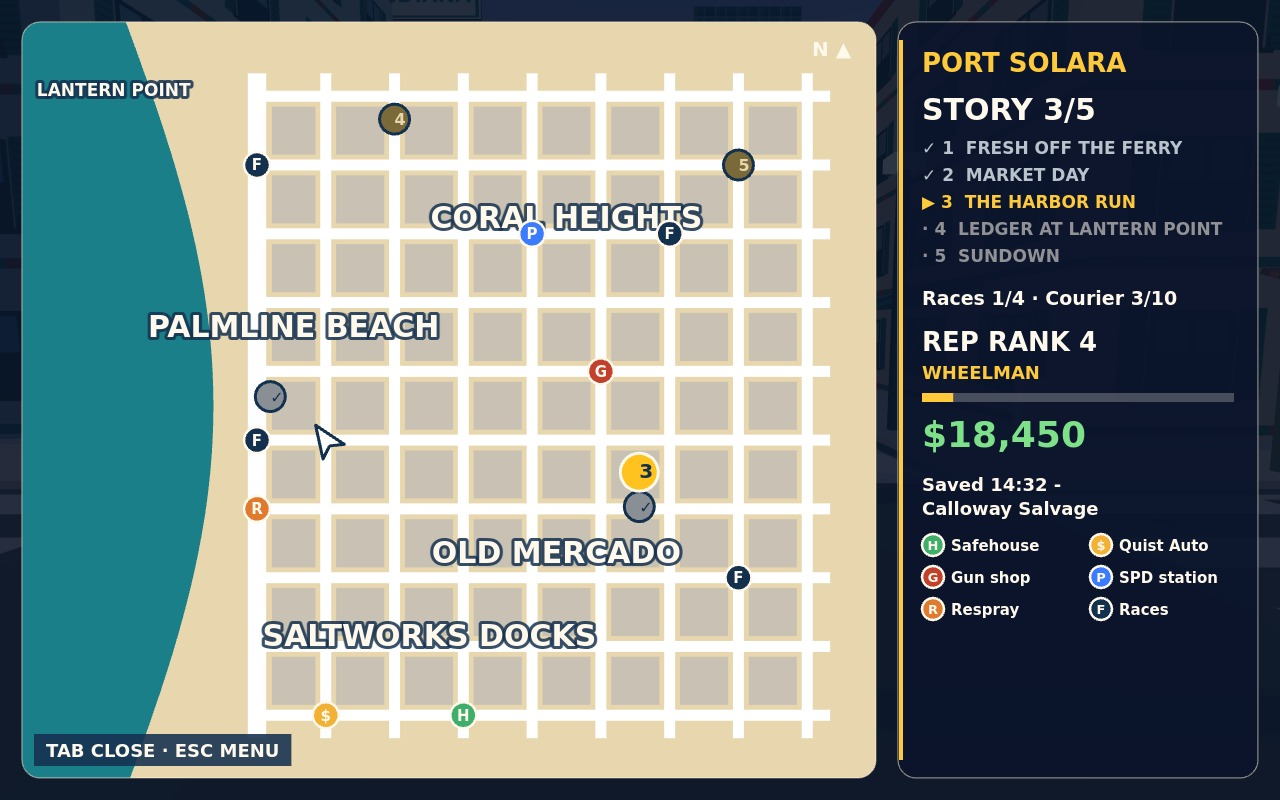
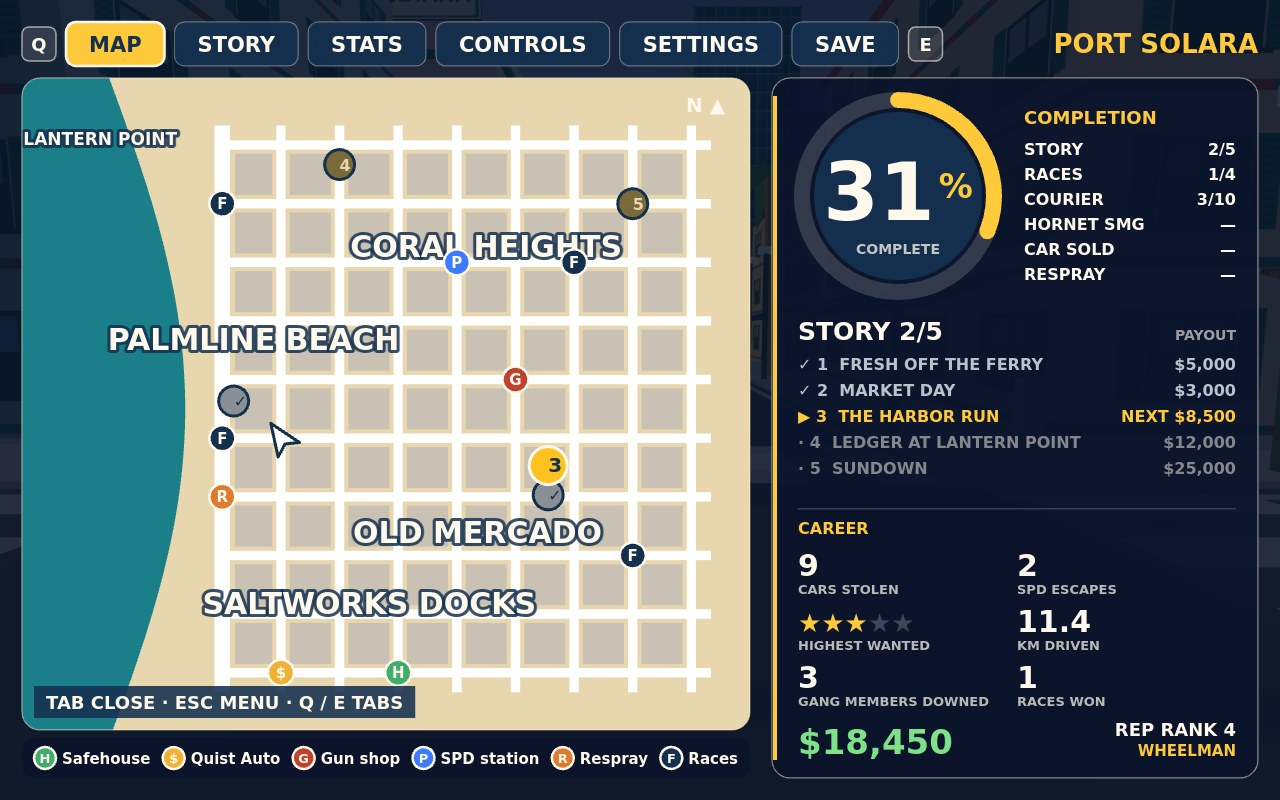
M8 step 4: shot 3 (3-map.jpg, same scene key and shots.json) shows the tabbed pause with MAP lit: tab row, city map with the legend strip, completion ring at 31% (from completionOf: story 24 + races 4 + courier 3), story with payouts and the six career numbers; SHOT_CAREER (9 cars stolen, 2 SPD esca

diff --git a/game/src/dev/screenshot-scenes.js b/game/src/dev/screenshot-scenes.js
@@ -1,5 +1,7 @@
 // Stages a shot from the seeded start, plays the real simulation forward a fixed number of
 // ticks with scripted input, hides the cursor, then flags window.__shotReady.
+import { careerFromSave } from '../story/career-stats.js';
+
 export function stageScreenshotScene(game, name) {
   document.body.classList.add('shot-mode');
   const hold = (codes, ticks) => {
@@ -17,6 +19,15 @@ export function stageScreenshotScene(game, name) {
 // WHEELMAN), $18,450, North Ring won, three courier drops, the Hornet still locked, saved at
 // Calloway Salvage at 14:32 (UTC, the headless clock). The title's CONTINUE line reads it back.
 export const SHOT_SAVE = { story: ['ferry', 'market'], rep: 640, cash: 18450, races: 1, bestLaps: { race1: 52.4 }, courier: 3, savedAt: Date.UTC(2026, 10, 20, 14, 32), place: 'Calloway Salvage' };
+// The career record that save would carry, kept possible for it: Market Day's ambush is the only
+// fight so far (3 gang members), one race won (North Ring), three courier drops, the Hornet not
+// bought, nothing sold or resprayed; about an hour of play. Applied through careerFromSave, the
+// same path a save load uses; the completion % is always computed, never stored.
+export const SHOT_CAREER = {
+  carsStolen: 9, policeEscapes: 2, highestWanted: 3, metresDriven: 11400, metresOnFoot: 1900,
+  gangDowned: 3, carsBlownUp: 1, racesWon: 1, courierDone: 3, timesBooked: 1, clinicVisits: 0,
+  carsSold: 0, hornetBought: 0, resprays: 0, secondsPlayed: 3480,
+};
 
 function seedShotSave(game) {
   for (const id of SHOT_SAVE.story) game.missions.completed.add(id);
@@ -162,6 +173,7 @@ export const SCENES = {
     const n = game.roads.nodes.reduce((b, p) => (Math.hypot(p.x + 90, p.z - 20) < Math.hypot(b.x + 90, b.z - 20) ? p : b));
     game.player.x = n.x; game.player.z = n.z; game.player.facing = 0.6;
     hold([], 60);
+    game.stats = careerFromSave(SHOT_CAREER); // after the play hold, so no tick adds to it
     game.openPause('map');
   },
   // The title over a drone orbit of the live city, with CONTINUE read back from the shared save
